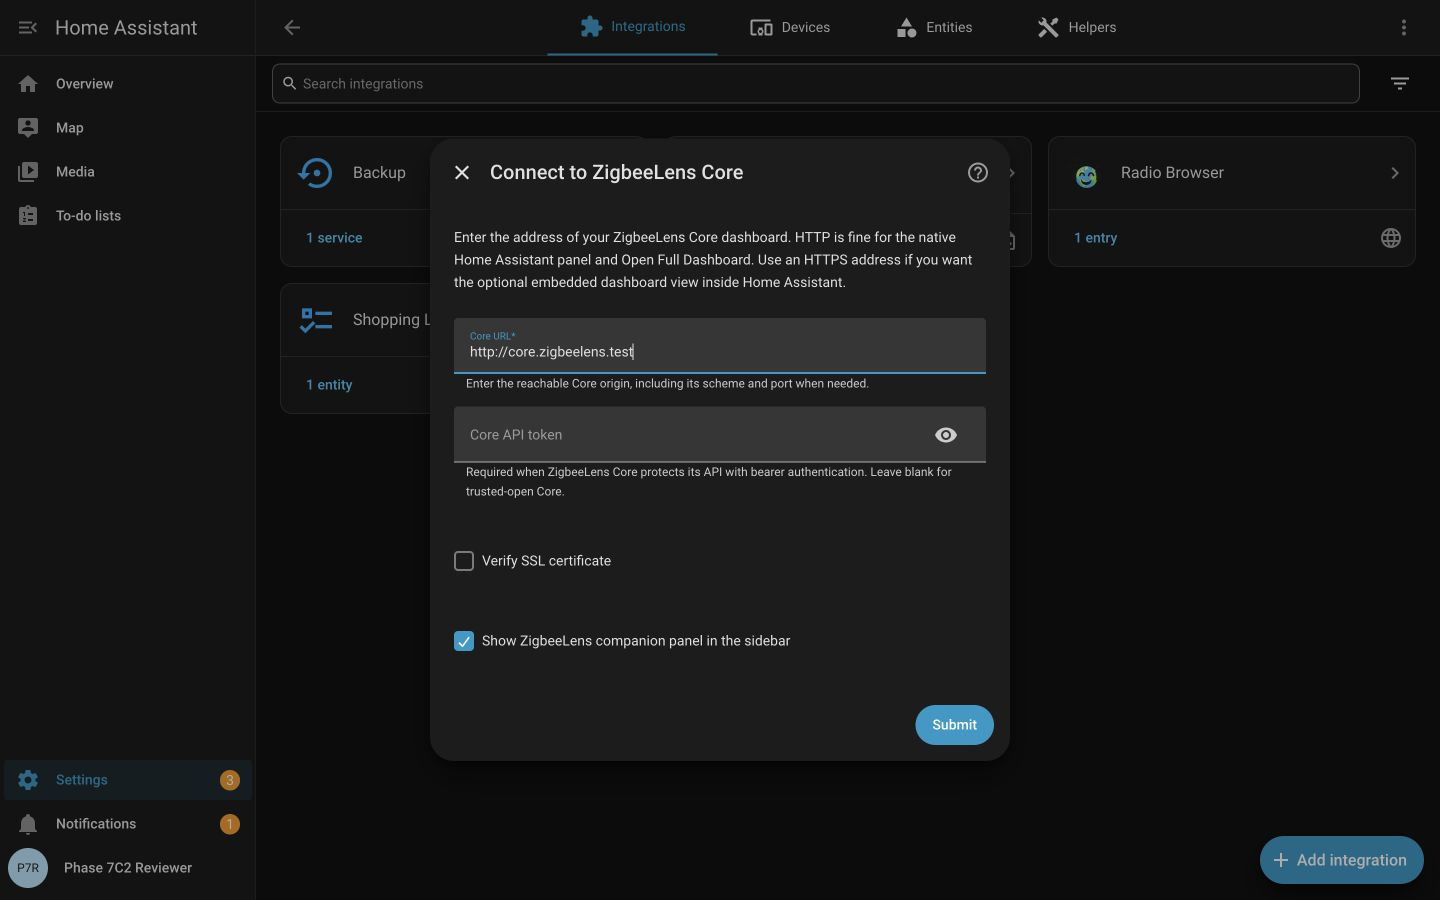
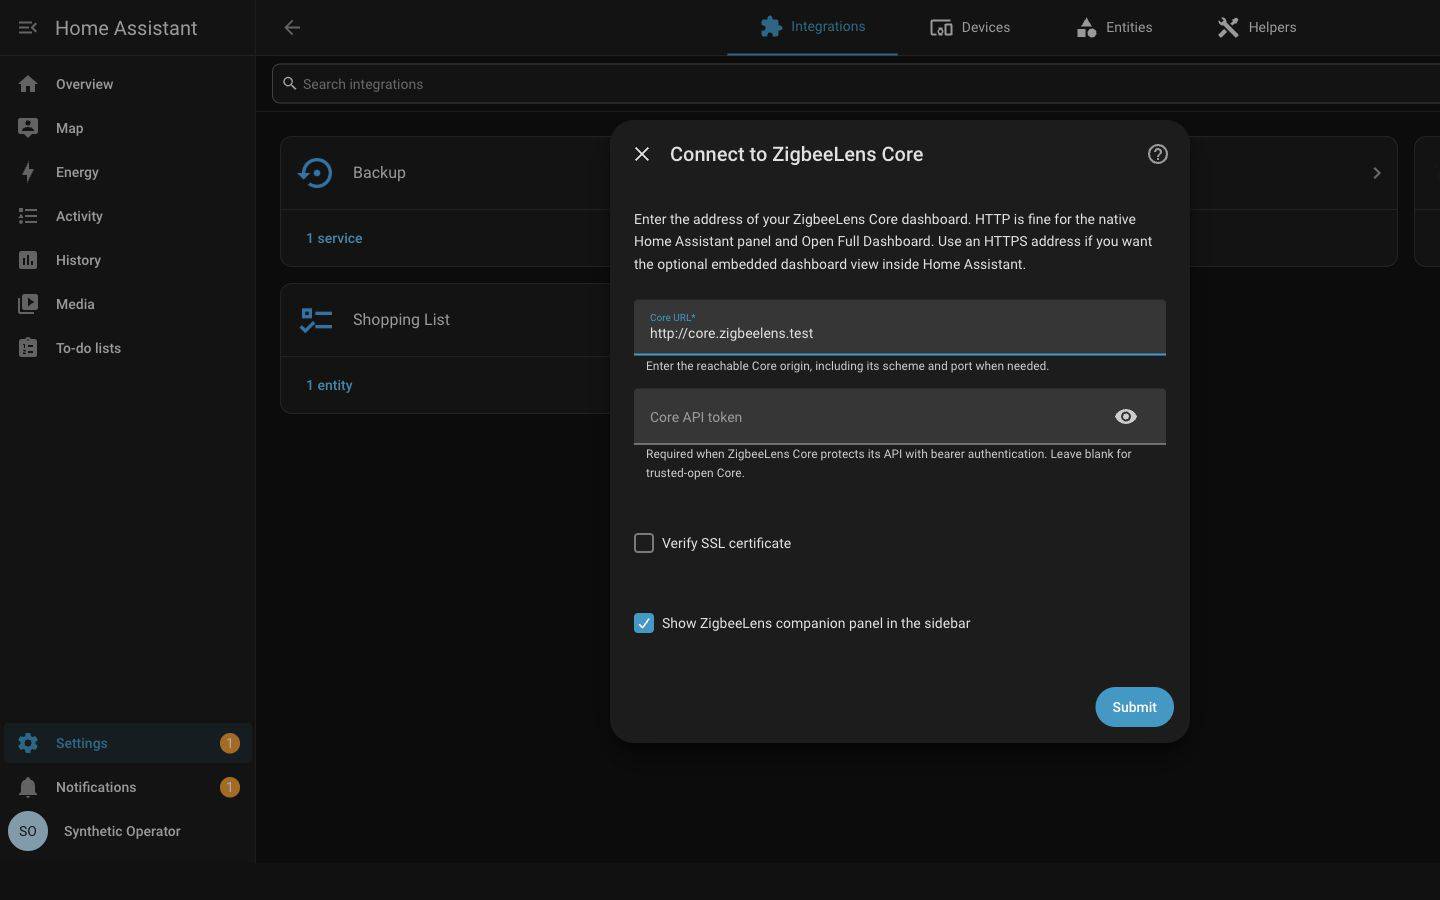
docs: recapture final HACS companion visuals

diff --git a/docs/hacs.md b/docs/hacs.md
@@ -34,10 +34,11 @@ portable Core deployment route.
 Phase 7C1 is merged. The runtime package now owns durable options, fail-closed
 Core/Decision compatibility, distinct Decision payload repairs, declarative and
 runtime single-entry enforcement, exact Home Assistant compatibility lanes,
-and generated official-validation workflows. The prior Phase 7C2 S1–S9 set
-remains provenance-checked evidence for its captured source but is stale after
-the correction. All nine screenshots must be recaptured from one new final
-runtime before Phase 7D, which remains blocked.
+and generated official-validation workflows. The complete Phase 7C2 S1–S9 set
+was recaptured on `2026-07-29` from corrected source
+`af04ee906b71de77ee6e0eb5d866c0647d502410`, with the local HACS stage built
+from the same source. The evidence is ready for independent review; it is not a
+release, and Phase 7D remains blocked.
 
 Public installation remains unavailable until a separately authorized
 publication task:
@@ -108,15 +109,25 @@ Only one ZigbeeLens config entry/Core target is supported. The manifest declares
 `single_config_entry: true`; config-flow concurrency checks and setup-time
 singleton ownership remain as runtime defenses.
 
-![Home Assistant ZigbeeLens config flow showing a synthetic Core URL, TLS verification, and companion panel options](screenshots/hacs-config-flow.png)
+![Home Assistant ZigbeeLens initial config flow showing a safe synthetic Core URL, a blank password token field, Verify SSL, and Show ZigbeeLens companion panel](screenshots/hacs-config-flow.png)
 
-Illustrative synthetic release-candidate data. This image belongs to the now-stale prior Phase 7C2 set. This real Home Assistant 2026.7.3 config flow was captured from the exact locally staged ZigbeeLens 0.1.14 package built from source `747374adbf07fe07282a28c5902a335b2bdc80c4`; the public HACS satellite was not used.
+Illustrative synthetic release-candidate data. This is the genuine
+final-candidate initial flow captured on `2026-07-29` in Home Assistant
+`2026.7.3`, using the exact locally staged ZigbeeLens `0.1.14` package built
+from source
+`af04ee906b71de77ee6e0eb5d866c0647d502410`; the public HACS satellite was
+not used. The API token is blank in the real password field. The safe Core URL,
+**Verify SSL**, and companion-panel enablement belong to initial setup.
 
-The setup dialog explains HTTP vs HTTPS Core URLs, optional SSL verification, and the companion panel sidebar toggle.
+Polling is configured later through the real **Configure / Options** flow,
+which also owns later companion-panel preference changes. Runtime verification
+proved the documented `15`–`900` second range, persistence of a non-default
+interval, exactly one effective reload, and use of the persisted coordinator
+interval. Polling is intentionally not shown in S7.
 
 Pre-release Core image: `ghcr.io/theaussiepom/zigbeelens:edge`
 
-Setup defaults:
+Initial-flow defaults:
 
 | Setting | Default |
 |---------|---------|
@@ -124,6 +135,12 @@ Setup defaults:
 | API token | blank |
 | Verify SSL | `false` |
 | Panel enabled | `true` |
+
+Configure / Options defaults and ownership:
+
+| Setting | Default |
+|---------|---------|
+| Panel enabled | The current config-entry preference; later changes are owned here |
 | Poll interval | `60` seconds; Configure accepts and persists `15` to `900` |
 
 ## Core URL
@@ -427,9 +444,13 @@ described above; authentication alone owns reauthentication.
 
 ### Native panel projection
 
-![Native Home Assistant ZigbeeLens companion panel showing accepted compatibility, Decision summary, factual counts, and dashboard actions](screenshots/hacs-companion-panel.png)
+![Native Home Assistant ZigbeeLens companion panel showing accepted Core, Decision v2 and enrichment v1 compatibility, factual counts, Decision summary, Integration health, and dashboard actions](screenshots/hacs-companion-panel.png)
 
-Illustrative synthetic release-candidate data. This image belongs to the now-stale prior Phase 7C2 set. This real native companion panel was captured in Home Assistant 2026.7.3 from the exact locally staged ZigbeeLens 0.1.14 package built from source `747374adbf07fe07282a28c5902a335b2bdc80c4`; the public HACS satellite was not used.
+Illustrative synthetic release-candidate data. This real final-candidate native
+companion panel was captured on `2026-07-29` in Home Assistant `2026.7.3` from
+the exact locally staged ZigbeeLens `0.1.14` package built from source
+`af04ee906b71de77ee6e0eb5d866c0647d502410`; the public HACS satellite was
+not used.
 
 - Pass-through Core `priority`, `title`, and `summary` (escaped for HTML)
 - Cap at three priorities; expose factual `more_investigation_priority_count`

diff --git a/docs/hacs-embedded-view.md b/docs/hacs-embedded-view.md
@@ -70,9 +70,15 @@ Traefik serves HTTPS on **port 443 only**. Appending `:8377` to an HTTPS hostnam
 
 If Home Assistant uses HTTPS and Core uses `http://192.168.100.5:8377`, the panel shows a friendly blocked explanation — not a broken iframe. **Open Full Dashboard** still works in a new tab.
 
-![Home Assistant ZigbeeLens panel explaining the blocked HTTPS Home Assistant and HTTP Core embedded-dashboard path with a return-to-summary action](screenshots/hacs-embedded-blocked.png)
+![Home Assistant ZigbeeLens panel showing the real HTTPS Home Assistant and HTTP Core embedded-view block, its technical explanation, Back to Summary, and Open full ZigbeeLens dashboard fallback](screenshots/hacs-embedded-blocked.png)
 
-Illustrative synthetic release-candidate data. This image belongs to the now-stale prior Phase 7C2 set. This real HTTPS-Home-Assistant/HTTP-Core mixed-content blocked path was captured in Home Assistant 2026.7.3 from the exact locally staged ZigbeeLens 0.1.14 package built from source `747374adbf07fe07282a28c5902a335b2bdc80c4`; the public HACS satellite was not used. The safe fallback is **Back to Summary** and **Open Full Dashboard** in a new tab. Recapture S1–S9 together from the final corrected runtime before Phase 7D.
+Illustrative synthetic release-candidate data. This real final-candidate
+HTTPS-Home-Assistant/HTTP-Core mixed-content blocked path was captured on
+`2026-07-29` in Home Assistant `2026.7.3` from the exact locally staged
+ZigbeeLens `0.1.14` package built from source
+`af04ee906b71de77ee6e0eb5d866c0647d502410`; the public HACS satellite was
+not used. The safe fallbacks are **Back to Summary** and **Open full ZigbeeLens
+dashboard** in a new tab. Phase 7D remains blocked.
 
 ## When to use HTTPS in front of Core
 
